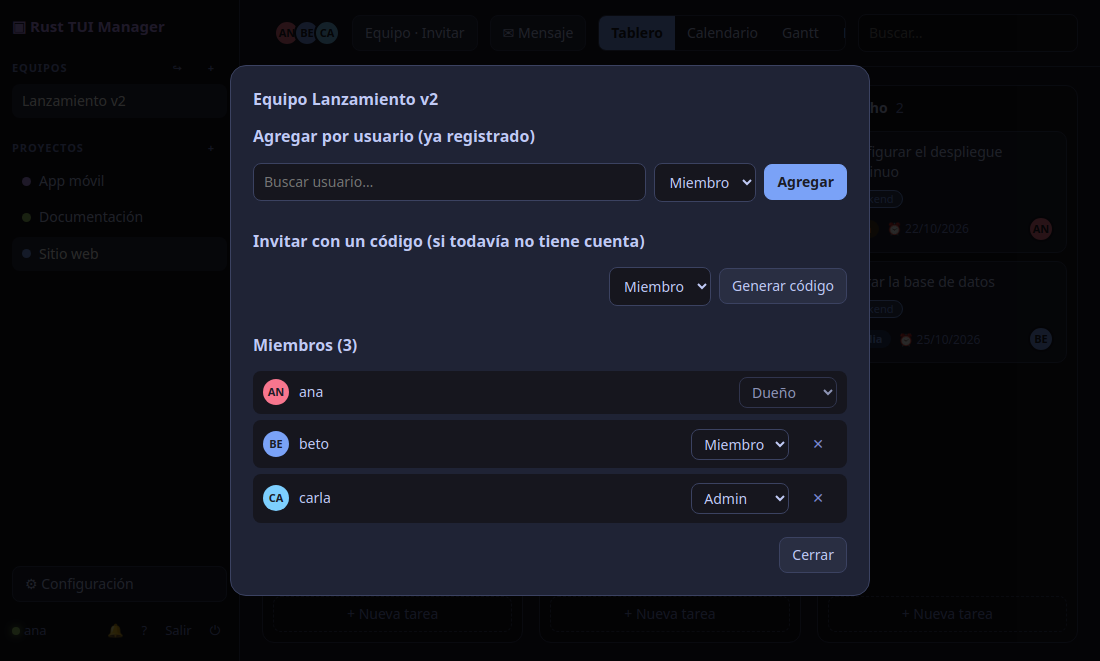
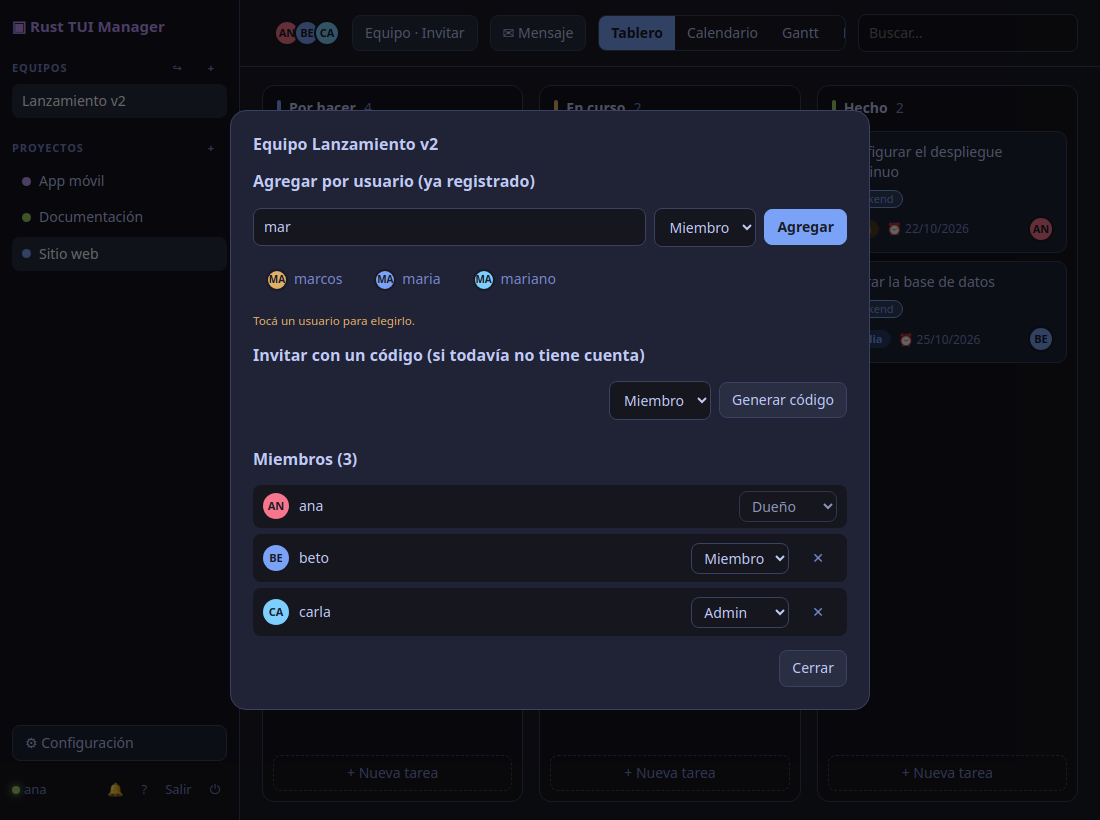
Capturas web de búsqueda de usuarios y código de invitación; imágenes del README con URL absolutas; versión 0.4.4

diff --git a/crates/server/README.md b/crates/server/README.md
@@ -16,8 +16,11 @@ Clientes: la TUI, la app gráfica de escritorio y la **web que este mismo servid
     <td><img src="https://raw.githubusercontent.com/polblancoo/tui_comandNote/main/docs/screenshots/web-settings.png" alt="Menú de configuración"></td>
   </tr>
   <tr>
-    <td><img src="https://raw.githubusercontent.com/polblancoo/tui_comandNote/main/docs/screenshots/web-team.png" alt="Equipo e invitaciones"></td>
+    <td><img src="https://raw.githubusercontent.com/polblancoo/tui_comandNote/main/docs/screenshots/web-team.png" alt="Equipo: buscar usuarios registrados"></td>
     <td><img src="https://raw.githubusercontent.com/polblancoo/tui_comandNote/main/docs/screenshots/web-activity.png" alt="Actividad del proyecto"></td>
+  </tr>
+  <tr>
+    <td><img src="https://raw.githubusercontent.com/polblancoo/tui_comandNote/main/docs/screenshots/web-invite.png" alt="Código de invitación generado"></td>
   </tr>
 </table>
 
